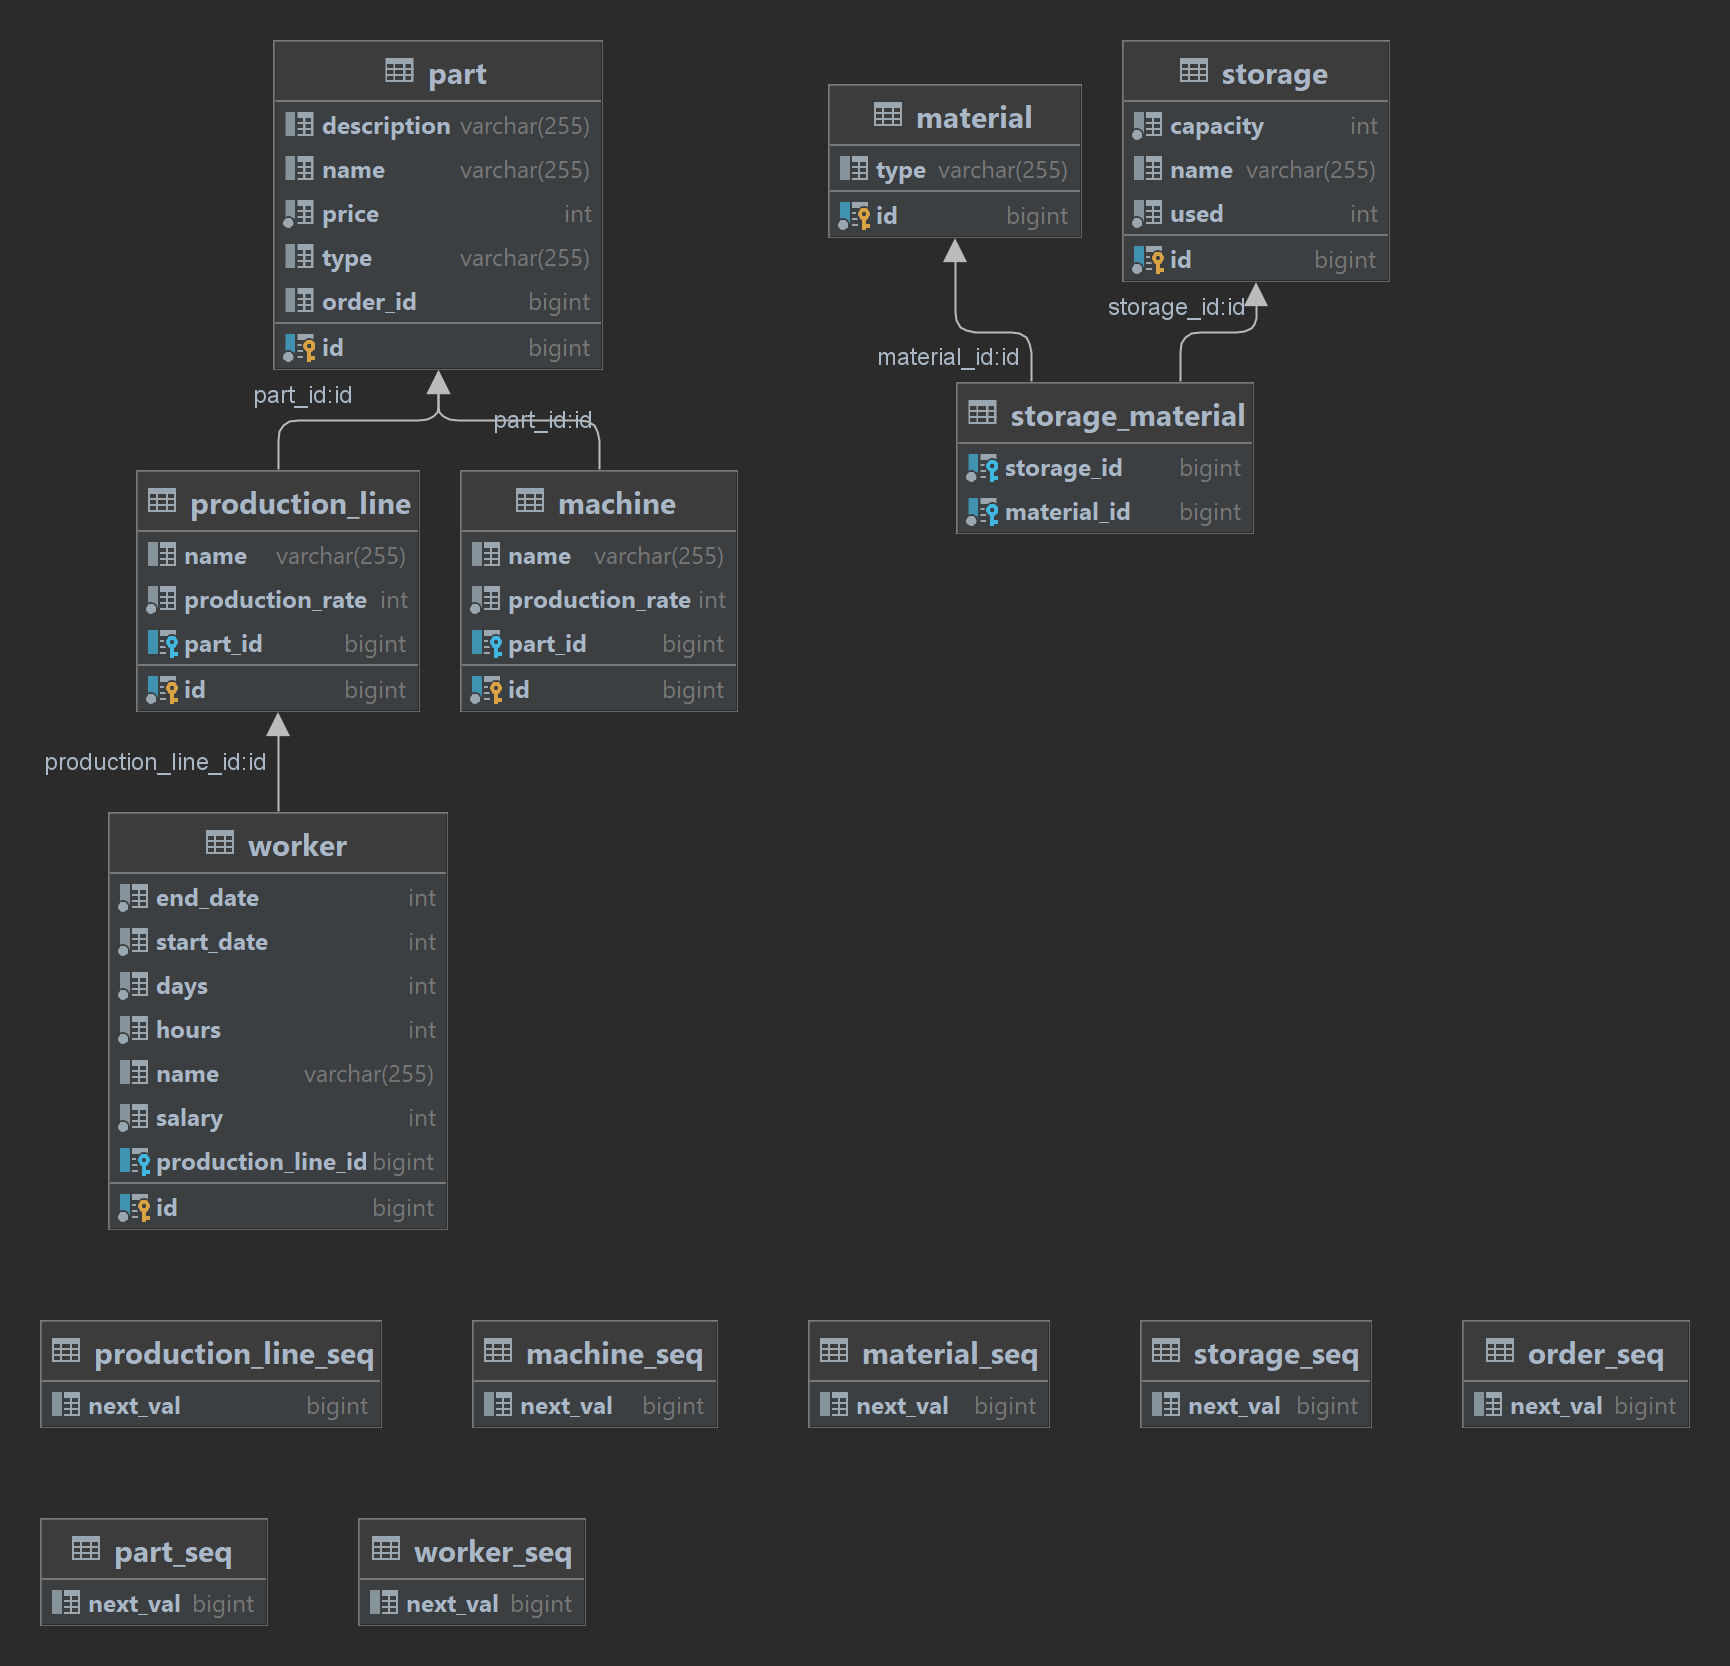
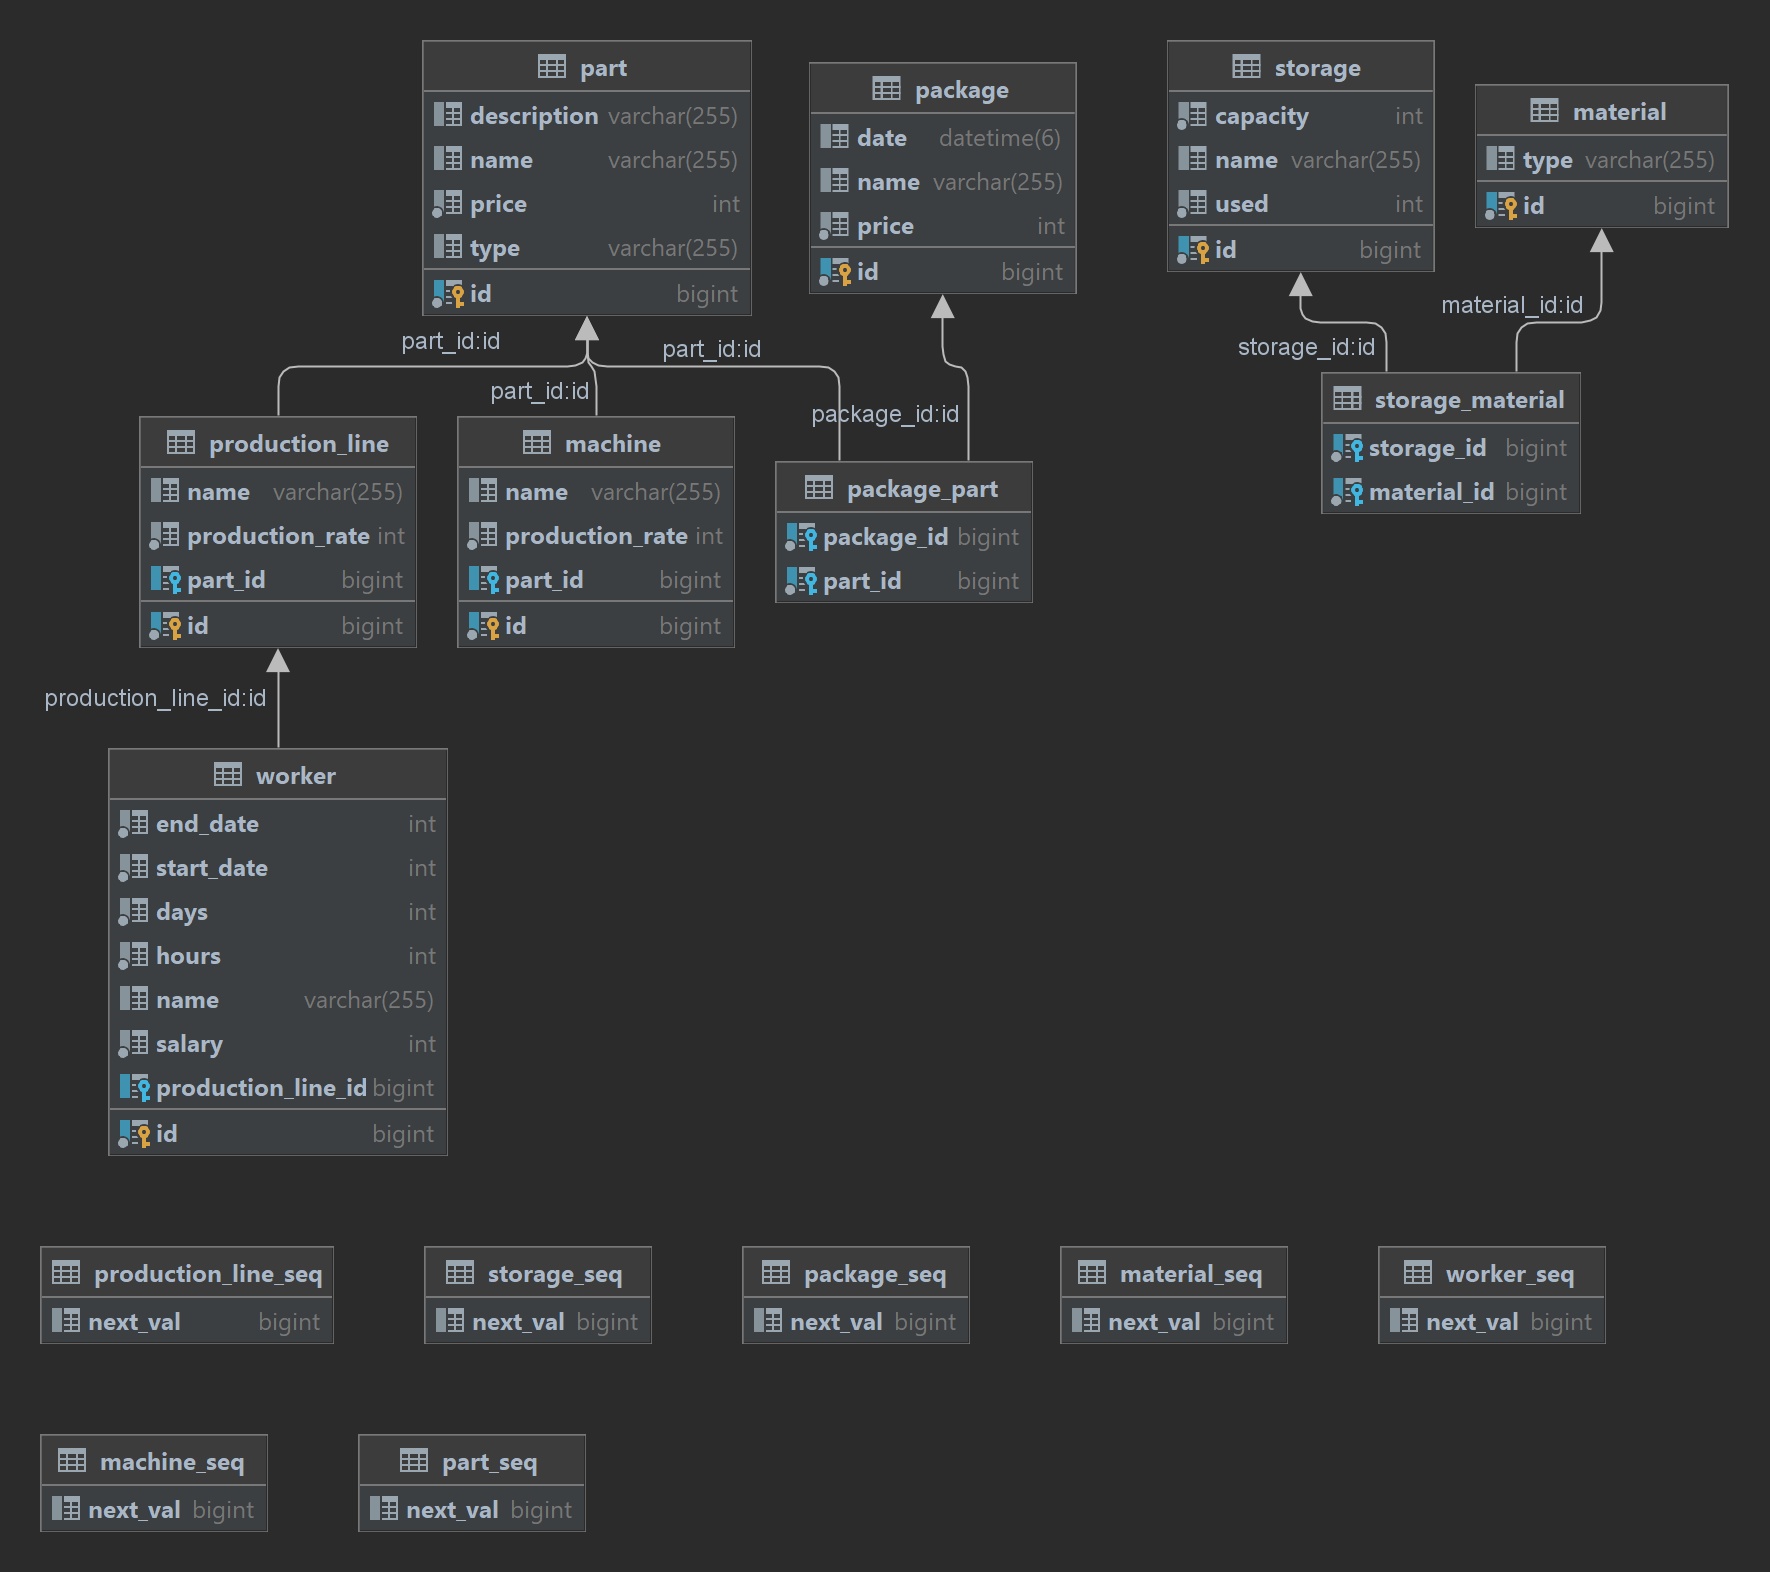
DB diagram and connection fixes

diff --git a/src/main/java/com/example/cyberneticfactory/entity/Machine.java b/src/main/java/com/example/cyberneticfactory/entity/Machine.java
@@ -1,22 +1,21 @@
-package com.example.cyberneticfactory.Entity;
+package com.example.cyberneticfactory.entity;
 
 import jakarta.persistence.Entity;
 import jakarta.persistence.GeneratedValue;
 import jakarta.persistence.Id;
-import jakarta.persistence.OneToMany;
+import jakarta.persistence.ManyToOne;
 import lombok.Data;
-
-import java.util.List;
 
 @Entity
 @Data
-public class Order {
+public class Machine {
     @Id
     @GeneratedValue
     private Long id;
 
     private String name;
+    private int production_rate;
 
-    @OneToMany(mappedBy = "order")
-    private List<Part> parts;
+    @ManyToOne
+    private Part part;
 }

diff --git a/src/main/java/com/example/cyberneticfactory/entity/Package.java b/src/main/java/com/example/cyberneticfactory/entity/Package.java
@@ -1,0 +1,26 @@
+package com.example.cyberneticfactory.entity;
+
+import jakarta.persistence.*;
+import lombok.Data;
+
+import java.util.Date;
+import java.util.List;
+
+@Entity
+@Data
+public class Package {
+    @Id
+    @GeneratedValue
+    private Long id;
+
+    private String name;
+    private int price;
+    private Date date;
+
+    @ManyToMany
+    @JoinTable(
+            name = "package_part",
+            joinColumns = @JoinColumn(name = "package_id"),
+            inverseJoinColumns = @JoinColumn(name = "part_id"))
+    private List<Part> parts;
+}

diff --git a/src/main/java/com/example/cyberneticfactory/entity/Part.java b/src/main/java/com/example/cyberneticfactory/entity/Part.java
@@ -1,4 +1,4 @@
-package com.example.cyberneticfactory.Entity;
+package com.example.cyberneticfactory.entity;
 
 import jakarta.persistence.*;
 import lombok.Data;
@@ -20,6 +20,6 @@ public class Part {
     @OneToMany(mappedBy = "part")
     private List<Machine> machines;
 
-    @ManyToOne
-    private Order order;
+    @ManyToMany(mappedBy = "parts")
+    private List<Package> packages;
 }

diff --git a/src/main/java/com/example/cyberneticfactory/repository/ProductionLineRepository.java b/src/main/java/com/example/cyberneticfactory/repository/ProductionLineRepository.java
@@ -1,6 +1,6 @@
-package com.example.cyberneticfactory.Repository;
+package com.example.cyberneticfactory.repository;
 
-import com.example.cyberneticfactory.Entity.ProductionLine;
+import com.example.cyberneticfactory.entity.ProductionLine;
 import org.springframework.data.jpa.repository.JpaRepository;
 import org.springframework.stereotype.Repository;
 

diff --git a/src/main/java/com/example/cyberneticfactory/repository/MaterialRepository.java b/src/main/java/com/example/cyberneticfactory/repository/MaterialRepository.java
@@ -1,6 +1,6 @@
-package com.example.cyberneticfactory.Repository;
+package com.example.cyberneticfactory.repository;
 
-import com.example.cyberneticfactory.Entity.Material;
+import com.example.cyberneticfactory.entity.Material;
 import org.springframework.data.jpa.repository.JpaRepository;
 import org.springframework.stereotype.Repository;
 

diff --git a/src/main/java/com/example/cyberneticfactory/repository/MachineRepository.java b/src/main/java/com/example/cyberneticfactory/repository/MachineRepository.java
@@ -1,6 +1,6 @@
-package com.example.cyberneticfactory.Repository;
+package com.example.cyberneticfactory.repository;
 
-import com.example.cyberneticfactory.Entity.Machine;
+import com.example.cyberneticfactory.entity.Machine;
 import org.springframework.data.jpa.repository.JpaRepository;
 import org.springframework.stereotype.Repository;
 

diff --git a/src/main/java/com/example/cyberneticfactory/repository/StorageRepository.java b/src/main/java/com/example/cyberneticfactory/repository/StorageRepository.java
@@ -1,6 +1,6 @@
-package com.example.cyberneticfactory.Repository;
+package com.example.cyberneticfactory.repository;
 
-import com.example.cyberneticfactory.Entity.Storage;
+import com.example.cyberneticfactory.entity.Storage;
 import org.springframework.data.jpa.repository.JpaRepository;
 import org.springframework.stereotype.Repository;
 

diff --git a/src/main/java/com/example/cyberneticfactory/repository/WorkerRepository.java b/src/main/java/com/example/cyberneticfactory/repository/WorkerRepository.java
@@ -1,6 +1,6 @@
-package com.example.cyberneticfactory.Repository;
+package com.example.cyberneticfactory.repository;
 
-import com.example.cyberneticfactory.Entity.Worker;
+import com.example.cyberneticfactory.entity.Worker;
 import org.springframework.data.jpa.repository.JpaRepository;
 import org.springframework.stereotype.Repository;
 

diff --git a/src/main/java/com/example/cyberneticfactory/repository/PartRepository.java b/src/main/java/com/example/cyberneticfactory/repository/PartRepository.java
@@ -1,6 +1,6 @@
-package com.example.cyberneticfactory.Repository;
+package com.example.cyberneticfactory.repository;
 
-import com.example.cyberneticfactory.Entity.Part;
+import com.example.cyberneticfactory.entity.Part;
 import org.springframework.data.jpa.repository.JpaRepository;
 import org.springframework.stereotype.Repository;
 

diff --git a/src/main/java/com/example/cyberneticfactory/repository/OrderRepository.java b/src/main/java/com/example/cyberneticfactory/repository/OrderRepository.java
@@ -1,0 +1,9 @@
+package com.example.cyberneticfactory.repository;
+
+import com.example.cyberneticfactory.entity.Package;
+import org.springframework.data.jpa.repository.JpaRepository;
+import org.springframework.stereotype.Repository;
+
+@Repository
+public interface OrderRepository extends JpaRepository<Package, Long> {
+}

diff --git a/src/main/java/com/example/cyberneticfactory/entity/Worker.java b/src/main/java/com/example/cyberneticfactory/entity/Worker.java
@@ -1,4 +1,4 @@
-package com.example.cyberneticfactory.Entity;
+package com.example.cyberneticfactory.entity;
 
 import jakarta.persistence.Entity;
 import jakarta.persistence.GeneratedValue;

diff --git a/src/main/java/com/example/cyberneticfactory/entity/Material.java b/src/main/java/com/example/cyberneticfactory/entity/Material.java
@@ -1,4 +1,4 @@
-package com.example.cyberneticfactory.Entity;
+package com.example.cyberneticfactory.entity;
 
 import jakarta.persistence.*;
 import lombok.Data;
